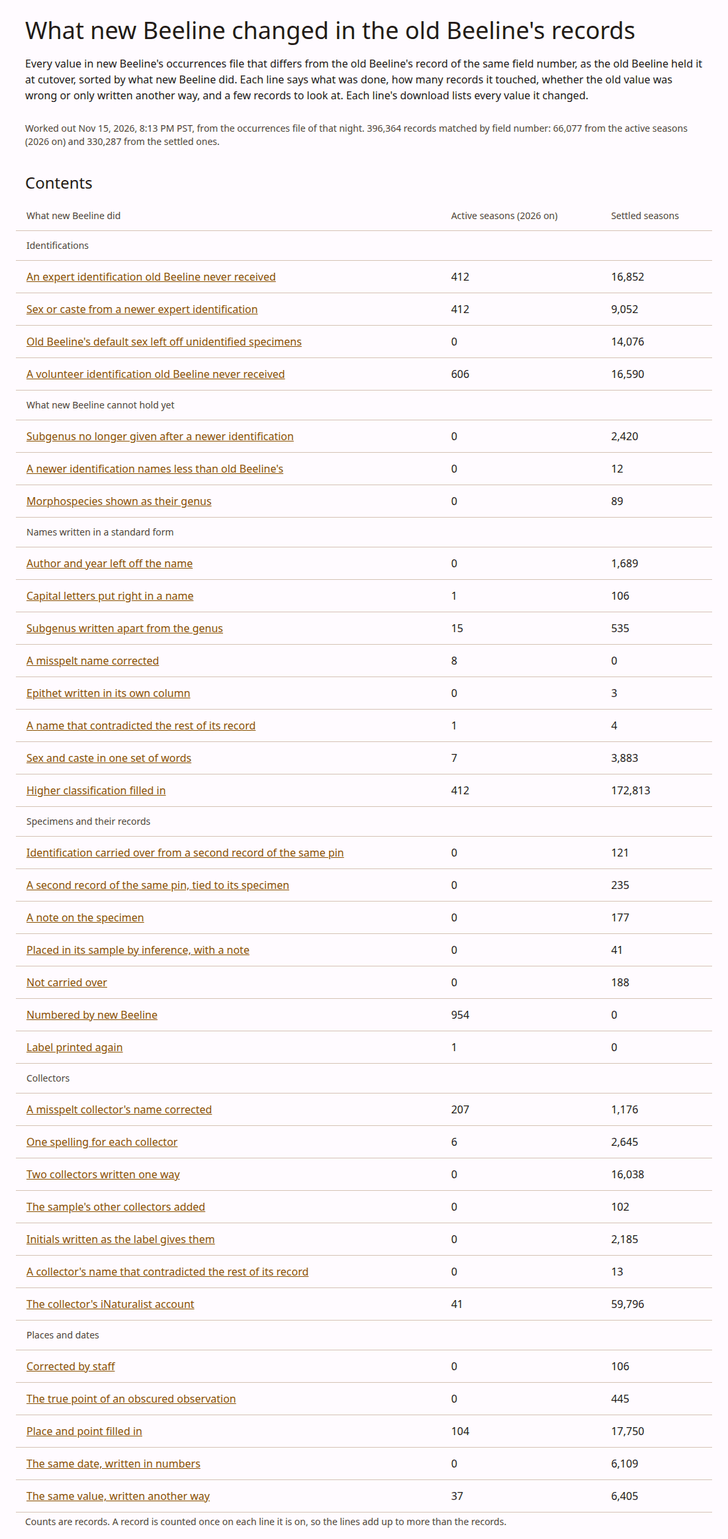
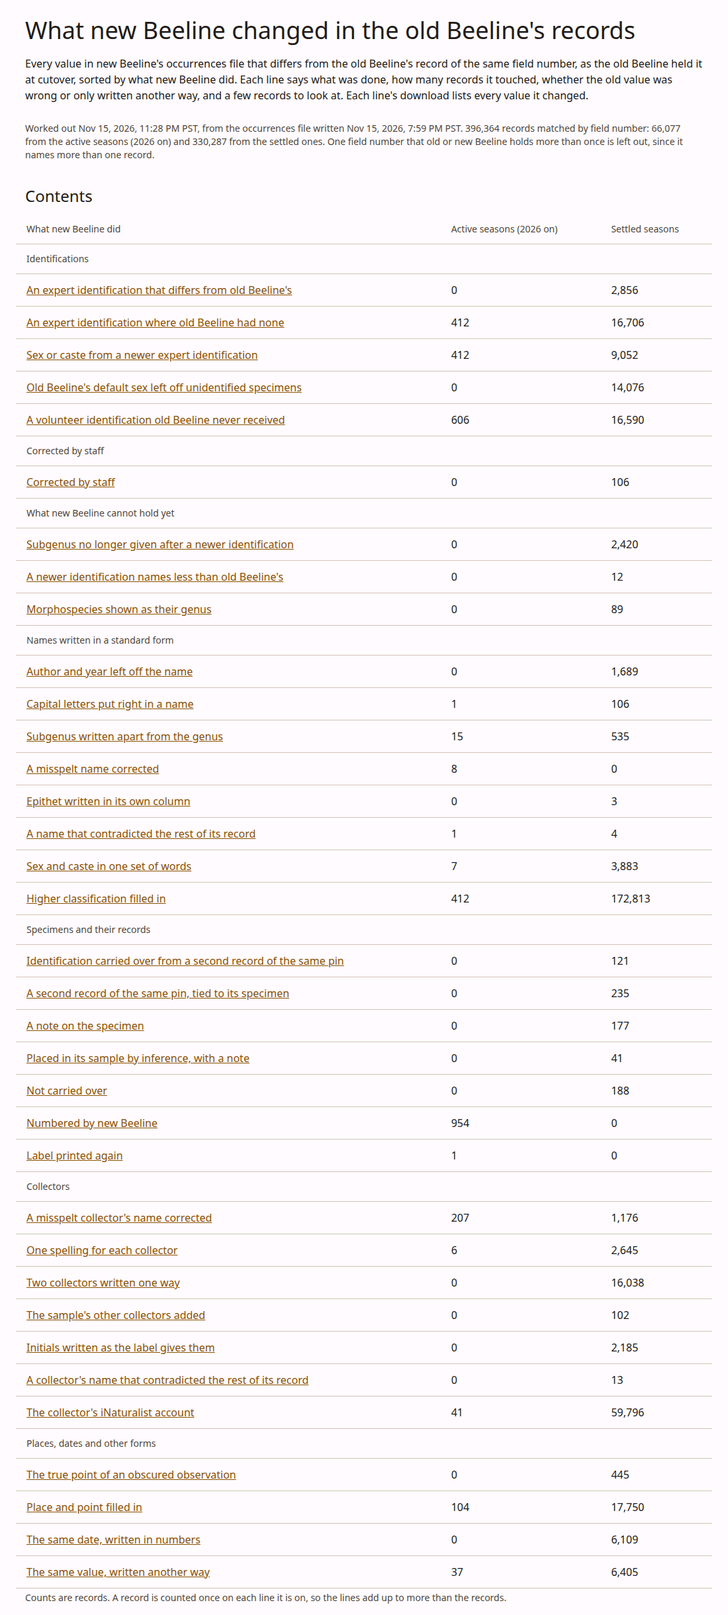
Tell an identification that replaced old Beeline's from one that filled a blank, and other wording a review found the mapping does not guarantee (Fable)
The newer-identification line split in two: 2,856 records where old
Beeline named the bee and new Beeline names it otherwise, which a list of
corrections must be checked against since new Beeline shows the
identification it received last rather than the one made last, and 17,118
where old Beeline had none. Staff corrections get a heading of their own;
the default-sex, sex-and-caste and staff lines say only what their kinds
guarantee; the CSVs drop the rulings' reasons, written for maintainers;
the page says when the export it read was written and how many field
numbers it could not pair; and the job runs last of the night's.

diff --git a/src/legacy-changes.ts b/src/legacy-changes.ts
@@ -60,9 +60,14 @@ export const CATEGORIES = [
     intro: "Where the identification of a specimen is not old Beeline's, and why.",
   },
   {
+    id: "staff",
+    title: "Corrected by staff",
+    intro: "Corrections staff made to old Beeline's records by hand, the other list of corrections already in new Beeline.",
+  },
+  {
     id: "gaps",
     title: "What new Beeline cannot hold yet",
-    intro: "What old Beeline said that new Beeline does not say, because it has nowhere to keep it yet or a newer identification left it out. These are the ones for taxonomists to look at.",
+    intro: "What old Beeline said that new Beeline does not say, because it has nowhere to keep it yet or a newer identification left it out.",
   },
   {
     id: "names",
@@ -81,8 +86,8 @@ export const CATEGORIES = [
   },
   {
     id: "places",
-    title: "Places and dates",
-    intro: "Where and when the specimen was collected.",
+    title: "Places, dates and other forms",
+    intro: "Where and when the specimen was collected, and values that are the same written another way.",
   },
   {
     id: "unsorted",
@@ -99,8 +104,12 @@ export interface ChangeLine {
   title: string;
   /** What it did and why, in a sentence or three. */
   did: string;
-  /** What the line takes: each a set of the comparison's kinds, in these columns only, or every column where none are named. */
-  match: readonly { kinds: readonly string[]; columns?: readonly string[] }[];
+  /**
+   * What the line takes: each a set of the comparison's kinds, in these
+   * columns only, or every column where none are named; and only where old
+   * Beeline's value was blank, or only where it was not, where `old` says so.
+   */
+  match: readonly { kinds: readonly string[]; columns?: readonly string[]; old?: "blank" | "given" }[];
 }
 
 /**
@@ -109,11 +118,18 @@ export interface ChangeLine {
  */
 export const LINES: readonly ChangeLine[] = [
   {
-    id: "newer_expert",
+    id: "expert_differs",
     category: "identifications",
-    title: "An expert identification old Beeline never received",
-    did: "The specimen's newest expert identification was made after old Beeline stopped receiving them, in Ecdysis or in new Beeline, where old Beeline had none or an earlier one. The name, its rank and family, and who determined it are that identification's.",
-    match: [{ kinds: ["newer_determination"], columns: IDENTIFICATION }],
+    title: "An expert identification that differs from old Beeline's",
+    did: "Old Beeline named the bee, and new Beeline names it otherwise, from an expert identification in Ecdysis or made in new Beeline. New Beeline shows the identification it received last, which is not always the one made last: where a taxonomist corrected a name in old Beeline after the earlier name reached Ecdysis, the earlier name is the one new Beeline shows. These are the records to check against a list of corrections.",
+    match: [{ kinds: ["newer_determination"], columns: IDENTIFICATION, old: "given" }],
+  },
+  {
+    id: "expert_added",
+    category: "identifications",
+    title: "An expert identification where old Beeline had none",
+    did: "Old Beeline left the name blank, and new Beeline gives one from an expert identification in Ecdysis or made in new Beeline: the name, its rank and family, and who determined it.",
+    match: [{ kinds: ["newer_determination"], columns: IDENTIFICATION, old: "blank" }],
   },
   {
     id: "newer_expert_sex",
@@ -126,7 +142,7 @@ export const LINES: readonly ChangeLine[] = [
     id: "default_sex",
     category: "identifications",
     title: "Old Beeline's default sex left off unidentified specimens",
-    did: "From 2023 old Beeline wrote male on every new record until somebody identified the specimen: it was the entry form's default, not anybody's reading of the bee. New Beeline gives a sex only where an expert identified the specimen, so these records, which no expert has identified, give none. A few of them said female rather than male; they give none either, for the same reason.",
+    did: "From 2023 old Beeline wrote male on every new record until somebody identified the specimen: it was the entry form's default, not anybody's reading of the bee. New Beeline gives a sex only where an expert identification states one. These records had no identification in old Beeline, and no expert identification since has stated a sex, so they give none. A few of them said female rather than male; they give none either, for the same reason.",
     match: [{ kinds: ["unidentified_sex_dropped"] }],
   },
   {
@@ -203,7 +219,7 @@ export const LINES: readonly ChangeLine[] = [
     id: "sex_caste_words",
     category: "names",
     title: "Sex and caste in one set of words",
-    did: "Male is written male, a caste written in the sex column gives the sex too (a worker is female), and old Beeline's Queen is written gyne.",
+    did: "Male is written male, a caste written in the sex column gives the sex too (a worker is female), and old Beeline's Queen is written gyne. A word that is neither a sex nor a caste is left out.",
     match: [{ kinds: ["sex_caste_vocabulary"] }],
   },
   {
@@ -313,9 +329,9 @@ export const LINES: readonly ChangeLine[] = [
   },
   {
     id: "staff_corrected",
-    category: "places",
+    category: "staff",
     title: "Corrected by staff",
-    did: "A correction staff made to the old record, in new Beeline or by hand before cutover: mostly trap samples whose method and end date were put right, and a few counties and localities.",
+    did: "A correction staff made to the old record, in new Beeline or in a file of corrections before cutover, which can be to any of its collector, numbers, dates, place or method. On 15 November 2026 they were trap samples whose method and end date were put right, and a few counties and localities.",
     match: [{ kinds: ["staff_correction"] }],
   },
   {
@@ -390,7 +406,11 @@ export const LINE_SQL = `CASE
   ${LINES.flatMap((l) =>
     l.match
       .filter((m) => m.kinds.length > 0)
-      .map((m) => `WHEN kind IN (${list(m.kinds)})${m.columns ? ` AND "column" IN (${list(m.columns)})` : ""} THEN '${l.id}'`),
+      .map(
+        (m) =>
+          `WHEN kind IN (${list(m.kinds)})${m.columns ? ` AND "column" IN (${list(m.columns)})` : ""}` +
+          `${m.old === "blank" ? " AND legacy = ''" : m.old === "given" ? " AND legacy <> ''" : ""} THEN '${l.id}'`,
+      ),
   ).join("\n  ")}
   ELSE 'other'
 END`;
@@ -431,6 +451,10 @@ export interface ChangesSummary {
   activeSince: string;
   reference: { rows: number; fingerprint: string };
   matched: { active: number; settled: number };
+  /** Field numbers both sides hold, one of them more than once, which the comparison cannot pair and so leaves off every line. */
+  duplicated: number;
+  /** When the export compared was written: tonight's, unless the export failed and an older file was read. */
+  exportWrittenAt: string;
   /**
    * The folder under the summary's own that holds this night's CSVs. Each
    * night writes a new one and the summary names it, so the counts on the
@@ -484,6 +508,18 @@ export async function writeChanges(
   await conn.run("SET threads = 1");
   try {
     const comparison = await compareLegacyExport(conn, exportPath, rulings);
+    // A field number held more than once on one side and present on the
+    // other names no pair the comparison can make, so none of its differences
+    // is on any line. One held twice on one side only is a record that side
+    // alone holds, which a line already counts (the empty records not carried
+    // over, say), so the comparison's own `duplicated` overstates the gap.
+    const [[unmatched]] = (await (await conn.run(`
+      SELECT count(*) FROM (
+        SELECT "fieldNumber" AS n FROM cmp_export GROUP BY 1 HAVING count(*) > 1
+        UNION
+        SELECT "fieldNumber" FROM legacy_occurrence WHERE nullif("fieldNumber", '') IS NOT NULL GROUP BY 1 HAVING count(*) > 1) x
+      WHERE EXISTS (SELECT 1 FROM cmp_export e WHERE e."fieldNumber" = x.n)
+        AND EXISTS (SELECT 1 FROM legacy_occurrence l WHERE l."fieldNumber" = x.n)`)).getRows()) as [[bigint]];
     await conn.run(`
       CREATE OR REPLACE TEMP TABLE chg_line AS
       SELECT k.*, ${LINE_SQL} AS line FROM cmp_kinded k`);
@@ -491,10 +527,6 @@ export async function writeChanges(
     await conn.run(`INSERT INTO chg_meta VALUES ${LINES.map((l) => `(${sqlString(l.id)}, ${sqlString(l.category)}, ${sqlString(l.title)})`).join(", ")}`);
     await conn.run(`CREATE OR REPLACE TEMP TABLE chg_outcome (outcome TEXT, words TEXT)`);
     await conn.run(`INSERT INTO chg_outcome VALUES ${Object.entries(OUTCOME_WORDS).map(([o, w]) => `(${sqlString(o)}, ${sqlString(w)})`).join(", ")}`);
-    await conn.run(`CREATE OR REPLACE TEMP TABLE chg_reason (ruling_id INTEGER, reason TEXT)`);
-    if (rulings.length > 0) {
-      await conn.run(`INSERT INTO chg_reason VALUES ${rulings.map((r, i) => `(${i}, ${sqlString(r.reason)})`).join(", ")}`);
-    }
 
     const counts = new Map(
       ((await (await conn.run(`
@@ -575,6 +607,8 @@ export async function writeChanges(
       activeSince,
       reference: comparison.reference,
       matched: comparison.matched,
+      duplicated: Number(unmatched),
+      exportWrittenAt: (await stat(exportPath)).mtime.toISOString(),
       generation,
       lines,
     };
@@ -602,8 +636,9 @@ export async function writeChanges(
 
 /**
  * Every difference on one line, one row each: the record, its season, the
- * column, old Beeline's value and new Beeline's, what new Beeline did, the
- * outcome, and the ruling's own reason. With a byte order mark, so a
+ * column, old Beeline's value and new Beeline's, what new Beeline did and the
+ * outcome. Not the ruling's own reason, which is written for whoever keeps
+ * the comparison (file names, issue numbers). With a byte order mark, so a
  * spreadsheet reads the names in it as UTF-8; replaced only once complete.
  */
 async function writeLineCsv(conn: DuckDBConnection, line: string, path: string): Promise<void> {
@@ -614,11 +649,10 @@ async function writeLineCsv(conn: DuckDBConnection, line: string, path: string):
       COPY (
         SELECT c.field_number, CASE WHEN c.active_season THEN 'active' ELSE 'settled' END AS season,
                c."column", c.legacy AS old_beeline, c.exported AS new_beeline,
-               m.title AS what_new_beeline_did, coalesce(o.words, c.outcome) AS outcome, coalesce(r.reason, '') AS why
+               m.title AS what_new_beeline_did, coalesce(o.words, c.outcome) AS outcome
         FROM chg_line c
         JOIN chg_meta m ON m.line = c.line
         LEFT JOIN chg_outcome o ON o.outcome = c.outcome
-        LEFT JOIN chg_reason r ON r.ruling_id = c.ruling_id
         WHERE c.line = ${sqlString(line)}
         ORDER BY c.field_number, c."column"
       ) TO ${sqlString(body)} (HEADER, DELIMITER ',', QUOTE '"', ESCAPE '"')`);

diff --git a/test/legacy-changes.test.ts b/test/legacy-changes.test.ts
@@ -21,11 +21,13 @@ import { legacyExportPath, writeLegacyExport } from "../src/legacy-export.js";
 import { scratchPaths } from "./helpers.js";
 import { promotedStore } from "./promoted-store.js";
 
-/** The line each (kind, column, outcome) goes to, by LINE_SQL itself. */
-async function linesOf(rows: [kind: string, column: string, outcome?: string][]): Promise<string[]> {
+/** The line each (kind, column, outcome, old Beeline's value) goes to, by LINE_SQL itself; the old value is not blank unless given. */
+async function linesOf(rows: [kind: string, column: string, outcome?: string, legacy?: string][]): Promise<string[]> {
   const conn = await (await openMemoryDuckDb()).connect();
   const reader = await conn.runAndReadAll(
-    `SELECT ${LINE_SQL} FROM (VALUES ${rows.map(([k, c, o], i) => `('${k}', '${c}', '${o ?? "expected"}', ${i})`).join(", ")}) t(kind, "column", outcome, i) ORDER BY i`,
+    `SELECT ${LINE_SQL} FROM (VALUES ${rows
+      .map(([k, c, o, l], i) => `('${k}', '${c}', '${o ?? "expected"}', '${l ?? "old"}', ${i})`)
+      .join(", ")}) t(kind, "column", outcome, legacy, i) ORDER BY i`,
   );
   conn.closeSync();
   return (reader.getRows() as [string][]).map(([l]) => l);
@@ -79,8 +81,13 @@ describe("the line each difference is on", () => {
     ),
   ];
 
-  test("puts every kind found on production on a line that describes it", async () => {
-    const rows = production.flatMap(([kind, columns]) => columns.map((c): [string, string] => [kind, c]));
+  test("puts every kind found on production on a line that describes it, whether old Beeline's value was blank or not", async () => {
+    const rows = production.flatMap(([kind, columns]) =>
+      columns.flatMap((c): [string, string, string, string][] => [
+        [kind, c, "expected", ""],
+        [kind, c, "expected", "old"],
+      ]),
+    );
     const lines = await linesOf(rows);
     const other = rows.filter((_, i) => lines[i] === "other");
     expect(other).toEqual([]);
@@ -99,6 +106,7 @@ describe("the line each difference is on", () => {
       await linesOf([
         ["newer_determination", "sex"],
         ["newer_determination", "genus"],
+        ["newer_determination", "genus", "expected", ""],
         ["changed", "userId"],
         ["changed", "firstName"],
         ["changed", "firstNameInitial"],
@@ -106,7 +114,7 @@ describe("the line each difference is on", () => {
         ["filled", "specificEpithet"],
         ["filled", "phylum"],
       ]),
-    ).toEqual(["newer_expert_sex", "newer_expert", "account", "collector_contradicted", "initials", "contradicted_name", "epithet_column", "classification"]);
+    ).toEqual(["newer_expert_sex", "expert_differs", "expert_added", "account", "collector_contradicted", "initials", "contradicted_name", "epithet_column", "classification"]);
   });
 
   test("puts a difference no ruling explains on a line of its own, whatever its kind", async () => {
@@ -121,7 +129,8 @@ describe("the line each difference is on", () => {
         if (a.line === b.line) continue;
         const kinds = a.kinds.filter((k) => b.kinds.includes(k));
         const columnsMeet = a.columns === undefined || b.columns === undefined || a.columns.some((c) => b.columns!.includes(c));
-        if (kinds.length > 0 && columnsMeet) clashes.push(`${a.line} and ${b.line}: ${kinds.join(", ")}`);
+        const oldMeets = a.old === undefined || b.old === undefined || a.old === b.old;
+        if (kinds.length > 0 && columnsMeet && oldMeets) clashes.push(`${a.line} and ${b.line}: ${kinds.join(", ")}`);
       }
     }
     expect(clashes).toEqual([]);
@@ -192,9 +201,9 @@ describe("writing the changes", () => {
     const bytes = await readFile(join(dir, sex.file));
     expect(bytes.subarray(0, 3)).toEqual(Buffer.from([0xef, 0xbb, 0xbf]));
     const [header, ...rows] = bytes.subarray(3).toString("utf8").trim().split("\n");
-    expect(header).toBe("field_number,season,column,old_beeline,new_beeline,what_new_beeline_did,outcome,why");
+    expect(header).toBe("field_number,season,column,old_beeline,new_beeline,what_new_beeline_did,outcome");
     expect(rows).toHaveLength(sex.values);
-    expect(rows[0]).toContain("25000005,settled,sex,male,female,Sex or caste from a newer expert identification,Not a fault in either,");
+    expect(rows[0]).toBe("25000005,settled,sex,male,female,Sex or caste from a newer expert identification,Not a fault in either");
     expect(sex.bytes).toBe((await stat(join(dir, sex.file))).size);
     expect(await readChangesSummary(exportsDir)).toEqual(summary);
     // The older night's folder, which no summary named, is gone; the folder it did not write is not.

diff --git a/src/app/jobs/registry.ts b/src/app/jobs/registry.ts
@@ -840,10 +840,26 @@ export function buildJobs(
       },
     },
     {
+      // One Darwin Core archive per calendar year for each atlas and for
+      // Master Melittology, for staff to review; none for the BLM surveys,
+      // whose samples are not theirs by geography (beeline-rvun). After the
+      // legacy export, so it reads the same store; on Exports.
+      name: "dwc-archives",
+      schedule: { kind: "dailyLA", hour: 4 },
+      window: "night",
+      async run(ctx) {
+        const manifest = await writeProgramArchives(ctx.db, config.exportsDir ?? deploymentPath("data/exports"), { step: ctx.step });
+        return describeManifest(manifest);
+      },
+    },
+    {
       // What new Beeline did to the old Beeline's records, sorted into lines a
       // taxonomist can read, for /exports/changes (beeline-eznn). After the
-      // export, whose file it compares with the staged old records; on one
-      // thread, as the export is, for the memory of the comparison.
+      // export, whose file it compares with the staged old records, and last,
+      // so a slow night pushes nothing else out of the night window; on one
+      // thread, as the export is, for the memory of the comparison. The page
+      // says when the file it compared was written, so a night whose export
+      // failed shows that it read the night before's.
       name: "legacy-changes",
       schedule: { kind: "dailyLA", hour: 4 },
       window: "night",
@@ -860,19 +876,6 @@ export function buildJobs(
           writeChanges(ctx.conn, path, rulings, changesDir(dir)),
         );
         return describeChanges(summary);
-      },
-    },
-    {
-      // One Darwin Core archive per calendar year for each atlas and for
-      // Master Melittology, for staff to review; none for the BLM surveys,
-      // whose samples are not theirs by geography (beeline-rvun). After the
-      // legacy export, so it reads the same store; on Exports.
-      name: "dwc-archives",
-      schedule: { kind: "dailyLA", hour: 4 },
-      window: "night",
-      async run(ctx) {
-        const manifest = await writeProgramArchives(ctx.db, config.exportsDir ?? deploymentPath("data/exports"), { step: ctx.step });
-        return describeManifest(manifest);
       },
     },
   ];

diff --git a/src/app/messages/en.ts b/src/app/messages/en.ts
@@ -2136,7 +2136,13 @@ export const en = {
       "Every value in new Beeline's occurrences file that differs from the old Beeline's record of the same field number, as the old Beeline held it at cutover, sorted by what new Beeline did. Each line says what was done, how many records it touched, whether the old value was wrong or only written another way, and a few records to look at. Each line's download lists every value it changed.",
     linkFromExports: "What new Beeline changed in the old Beeline's records",
     missing: "Not worked out yet. It appears after the next nightly run, or after running the legacy-changes job on Jobs.",
-    written: (when: string) => `Worked out ${when}, from the occurrences file of that night.`,
+    written: (when: string, file: string) => `Worked out ${when}, from the occurrences file written ${file}.`,
+    duplicated: (count: number) =>
+      count === 0
+        ? ""
+        : count === 1
+          ? "One field number that old or new Beeline holds more than once is left out, since it names more than one record."
+          : `${n(count)} field numbers that old or new Beeline holds more than once are left out, since each names more than one record.`,
     matched: (active: number, settled: number, since: string) =>
       `${n(active + settled)} records matched by field number: ${n(active)} from the active seasons (${since} on) and ${n(settled)} from the settled ones.`,
     contents: "Contents",

diff --git a/src/app/views/legacy-changes.tsx b/src/app/views/legacy-changes.tsx
@@ -40,8 +40,8 @@ export function LegacyChangesPage({ m, summary }: { m: Messages; summary: Change
     <>
       <PageHeader title={c.heading} lede={c.intro} />
       <Meta block>
-        {c.written(m.format.dateTime(new Date(summary.writtenAt)))}{" "}
-        {c.matched(summary.matched.active, summary.matched.settled, since)}
+        {c.written(m.format.dateTime(new Date(summary.writtenAt)), m.format.dateTime(new Date(summary.exportWrittenAt)))}{" "}
+        {c.matched(summary.matched.active, summary.matched.settled, since)} {c.duplicated(summary.duplicated)}
       </Meta>
       <h2>{c.contents}</h2>
       <DataTable columns={[c.colLine, c.colActive(since), c.colSettled]}>

diff --git a/docs/architecture/the-legacy-format-export.md b/docs/architecture/the-legacy-format-export.md
@@ -4,7 +4,7 @@ Part of Beeline's architecture notes; the index is [README.md](README.md).
 
 Reporting built on the legacy system's occurrences file — Andony's R comparison, the taxonomists' Ecdysis uploads — keeps working because Beeline writes that file too (`src/legacy-export.ts`, beeline-6q8, GitHub #107): every specimen, the legacy template's 63 columns in its order and then one of Beeline's own, `occurrenceRemarks`, the inventory's remark on the specimen where there is one (`specimen_disposition`, beeline-fud5; Andony's own 2025 master file carries the column under that name, and the comparison below rules it `expected`), csv-stringify's conventions (BOM, header, `\n`, quote only when needed, blank as nothing) and its composite_sort row order. The `legacy-export` job writes it nightly at 4am Pacific into `exportsDir`, and admins download it from `/exports`; DuckDB writes it with `COPY` because the corpus is ~160 MB. **Where a value comes from is a rule, not a column-by-column choice**: anything Beeline can change comes from the model — collectors, dates, places, coordinates, determinations, printing — so the file follows staff edits and Ecdysis determinations; what Beeline does not model at all (the legacy error flags, catalog numbers, resource links, the plant's higher taxonomy) is carried from the staged record of an imported specimen exactly, blanks included, and a Beeline-originated specimen gets the model's value where it holds the fact and a blank where it does not. The aim is to match the legacy file exactly (Peter, 2026-10-04), so a row describes one point: where it carries its own imported coordinates it carries that row's elevation and uncertainty too, never the sample's, since a sample that merged legacy rows taken at different points has one location and its elevation belongs to another place (beeline-en7i); a row likewise carries its own method, end date and place by name wherever the legacy rows of its sample disagree about them, since a sample holds one of each and one collector's sample 1 of 25 April 2019 was two specimens netted that day and three from pan traps emptied the next — read from the corrected rows, so a staff edit, which corrects every row of its sample, brings the model's value back, as does a locality override set on the sample; where Beeline holds no volunteer identification, the volunteer columns are the legacy row's, and where it holds no expert one, the expert columns are (a determiner with no name, `L.R.Best` on 88 records, has no determination to live on); sex and caste are the expert's, so where no expert determination states them the old record's are carried only where it names an expert identification, because from 2023 the old Beeline wrote "male" on records nobody had identified as an entry default (24,434 on the store of 15 November 2026, of which experts in Ecdysis have since found half female; Peter, 2026-11-15, beeline-eznn); and while the legacy determination is still the record its subgenus is the legacy row's, since the tree files a species under its genus and the subgenus the determiner stated is held nowhere else (Peter, 2026-10-04). Legacy vocabulary is kept where it differs from the model's: `CA`/`NZ` rather than ISO alpha-3, several collectors joined with `" | "` in the name columns as the register wrote a shared login, a qualifier inside `scientificName`. `pnpm legacy:compare-export` is the done-test: on the 2026-09-27 corpus the open season differs in a few hundred values per column out of 61,400 records, and the settled seasons mostly where Beeline normalised (Roman-numeral months, `Male`) or filled what older records left blank (the higher taxonomy of 158,669 identified specimens). During the parallel run it is also the list of what nobody has explained yet (beeline-en7i): each difference gets a kind from its two values alone (`filled`, `case`, `date_form`, `country_code`, `subgenus_form`, `authorship`, … or `changed`), or from what the store knows where the values cannot say it — `collector_alias` (the legacy spelling of a collector that `ingest/collector-aliases.csv` corrects), `taxon_alias` (the same for a genus or epithet and `ingest/taxon-aliases.csv`), `subgenus_form` again where a genus column holds only `(Peponapis)` and the tree files it under the genus exported, `staff_correction` (the legacy row as staff corrected it, and the columns written from a date they corrected), `newer_determination` (an expert identification from Ecdysis or Beeline, and for sex and caste the newest expert determination that states one), `newer_volunteer_determination` (the same for a volunteer's, from a worksheet or made in Beeline), `sex_caste_vocabulary` (sex and caste as promotion reads the old pair: `Male` is male, a worker is female, Queen a gyne), `second_print` (an identification carried from the specimen's other old record, which the one-time repair tied to it), `repair_placed` (a held-back record the repair placed in its sample, whose values it takes), `reprinted` (a label printed again, whose print date is the newest printing's), `unidentified_sex_dropped` (the old default sex on a record no expert identified, no longer carried), `subgenus_dropped` and `coarser_determination` (what a newer expert identification lost: the old subgenus, or a species where the newest names a genus), `label_name`, `initial_from_surname`, `collector_order_contradicted` (a record whose recordedBy and name columns list its pair in opposite orders), `login_renamed` (the same iNaturalist user id under another login), `sample_disagreement` (promotion found the legacy rows merged into this specimen's sample disagreeing about that place field), a record only one side holds is a difference about the whole record kinded by why — the blocking promotion finding that stopped it, or whether Beeline minted its number — and `ingest/legacy-export-rulings.csv`, written by hand and reviewed in git, says which are explained: by column, by kind, or one record by field number, or with no column for a kind wherever it occurs, the most specific ruling winning, with the outcome (`expected`, `reference-wrong`, `beeline-wrong`, `known-gap`), why, and where the call was made. The outcome follows one rule (Peter, 2026-11-15): the old Beeline is wrong (`reference-wrong`) where its value is false, a misspelling, a lower-case genus, an obscured observation's hiding point printed as its real one, a default sex; and it is `expected` where its value is true written another way, a capital in a login or a name, an initial without its full stop, a Roman month, a three-letter country code. A `beeline-wrong` ruling that matches nothing any more reports itself retired, so a fixed defect never hides behind a stale ruling. The legacy side is the staged pull, which Beeline also imports from, so this measures what Beeline does to the legacy records rather than two independent systems, and the report names the pull by a fingerprint of its rows; it runs from a workstation whenever someone asks, and nightly as the `legacy-changes` job (below), with no gate. Every difference, with the ruling that explains it, goes to `data/exports/legacy-export-differences.csv` for anyone auditing it — under `data/` because it names people. **It is now the ledger of what new Beeline does to the old records** (beeline-eznn): Lincoln Best kept his own list of corrections, never applied before cutover, so a three-way merge of the old records, new Beeline and his list is coming, and this is the second side of it. Audited against the production backup of 15 November 2026, it matched 396,307 records and found 1,371,180 differing values, every one ruled. Until then 7,281 records whose sex went from male to female had been put down to the sex vocabulary, and 7,270 of them were an expert's identification from Ecdysis since cutover; the vocabulary now has a kind of its own, applied only where promotion's reading of the old pair is what new Beeline wrote, and sex and caste follow the newest expert determination that states them. An independent review of the ledger then found most of those 2025 "male" values were an entry default (above), which the export stopped carrying, and that a newer identification's losses had been ruled as nothing more than newer: 2,420 subgenera and 6 species, now known gaps for the taxonomists to see. With those, the backup's 1,385,256 differing values are every one ruled.
 
-**Staff read the ledger at `/exports/changes`** (`src/legacy-changes.ts`, beeline-eznn), written for Linc rather than for whoever maintains the comparison. Each difference goes on one line that says what new Beeline did, in a taxonomist's words ("Subgenus no longer given after a newer identification", "Two collectors written one way"), chosen by its kind and its column. The lines sit under six headings: identifications, what new Beeline cannot hold yet, names, specimens, collectors, and places and dates. Every line gives its records split by season, the outcome of its rulings in plain words, three records to look at (each the first record of one of the line's commonest changes, linked to its specimen), and a CSV of every value it changed. The CSVs are one per line, not one per heading, because the higher classification filled in from the name is a million values (200 MB) and would bury the rest of the names. A test holds the lines to taking no kind in the same column twice, and to placing every kind and column found on the production backup of 15 November 2026 on a line that describes it. A difference no ruling explains goes on a line of its own, and one that no line describes goes on an `other` line, so nothing drops off the page. The comparison takes 25 to 90 seconds and about 1.6 GB of memory on one thread (it completes with DuckDB held to 768 MB, spilling to disk), so the page never runs it. The `legacy-changes` job runs it each night after the export, on one thread, and writes the CSVs into a new folder of the night's own under `<exportsDir>/changes/` and then `summary.json`, which names that folder and which the page reads, so the counts on the page and a file downloaded from it are always one night's, even after a night that fails part-way; each download link names its night, and the job keeps the night before's folder for anyone who loaded the page before the run, removing only older folders named as it names a night. Building the page also corrected the ledger: a second print that the one-time repair tied to a specimen still carries promotion's blocking finding, so the comparison had counted all 235 of them as held back. It now gives them a kind of their own, `tied_second_record`, which leaves 188 field numbers held back: the 99 records the held-back page lists, and the 89 field numbers of its 177 bare records.
+**Staff read the ledger at `/exports/changes`** (`src/legacy-changes.ts`, beeline-eznn), written for Linc rather than for whoever maintains the comparison. Each difference goes on one line that says what new Beeline did, in a taxonomist's words ("Subgenus no longer given after a newer identification", "Two collectors written one way"), chosen by its kind and its column. The lines sit under seven headings: identifications, corrections staff made, what new Beeline cannot hold yet, names, specimens, collectors, and places, dates and other forms. Where an expert identification differs from a name old Beeline gave, it has a line apart from one that fills a blank (2,856 records against 17,118 on the backup of 15 November 2026), because new Beeline shows the identification it received last rather than the one made last: a name a taxonomist corrected in old Beeline after the earlier one reached Ecdysis shows as the earlier one, and those are the records a list of corrections must be checked against. The page also says when the export it compared was written, and how many field numbers it could not pair because one side holds them twice (one on that backup). Every line gives its records split by season, the outcome of its rulings in plain words, three records to look at (each the first record of one of the line's commonest changes, linked to its specimen), and a CSV of every value it changed. The CSVs are one per line, not one per heading, because the higher classification filled in from the name is a million values (200 MB) and would bury the rest of the names. A test holds the lines to taking no kind in the same column twice, and to placing every kind and column found on the production backup of 15 November 2026 on a line that describes it. A difference no ruling explains goes on a line of its own, and one that no line describes goes on an `other` line, so nothing drops off the page. The comparison takes 25 to 90 seconds and about 1.6 GB of memory on one thread (it completes with DuckDB held to 768 MB, spilling to disk), so the page never runs it. The `legacy-changes` job runs it each night after the export, on one thread, and writes the CSVs into a new folder of the night's own under `<exportsDir>/changes/` and then `summary.json`, which names that folder and which the page reads, so the counts on the page and a file downloaded from it are always one night's, even after a night that fails part-way; each download link names its night, and the job keeps the night before's folder for anyone who loaded the page before the run, removing only older folders named as it names a night. Building the page also corrected the ledger: a second print that the one-time repair tied to a specimen still carries promotion's blocking finding, so the comparison had counted all 235 of them as held back. It now gives them a kind of their own, `tied_second_record`, which leaves 188 field numbers held back: the 99 records the held-back page lists, and the 89 field numbers of its 177 bare records.
 
 **The same rows go back into the old Beeline** (`src/legacy-copy.ts`, beeline-83b8.18). The old Beeline stays open at old.melittologist.org for volunteer determinations through December 2026, and its screens show only its own master list, so the `legacy-copy` job copies there, nightly at 4am Pacific, every specimen a print run here printed and that was not imported from the old system, which holds those already (one, reprinted here under its old number, it holds under its own record). The determinations volunteers enter for them come back by beeline-c43w. Each copy is the export's row for the specimen, its 63 template columns: on the store of 7 November 2026 that filled every column the old system's own printed 2026 records fill except those Beeline does not hold (the OSAC `occurrenceID` and `resourceID`, the observation's UUID in `relatedResourceID`, the plant's phylum, order and family), none of which its determination screens read. It goes **through the old system's API, not its database**: `POST /api/occurrences` as an admin upserts each record by `_id` and sets only the fields it is given, and the old server's repository computes on every write the `composite_sort` and `date` fields its screens sort and filter by, which a direct Mongo write would have to copy exactly; the API is also reached over HTTPS with a login, where Mongo needs a root SSH key to the old host. Its working-file upload is no alternative, since reading that file in deletes every occurrence first. A copy is keyed `beeline-specimen-<entity_id>` rather than by the old system's hash of sample, specimen, date and link, so a corrected date or a duplicate repair's second field number updates the same record, and so beeline-c43w can tell a record that started here from one the old system made. Whether a record is new is read from the old system before each batch, by the field number it holds now and the one last copied (`legacy_copy`, schema/035), and **the five volunteer columns are written only where the old record has none**, so a volunteer's entry there is never overwritten; an update sends only volunteer values that say something, since a volunteer can save between that read and the write, and a blank sent then would erase their entry. Each batch is read back and a specimen recorded in `legacy_copy` only when the old system holds what was sent, since the old server's reply counts go null whenever a batch makes a new record; an unchanged row is not sent again, and a field number the old system holds under another record is not sent at all and fails the night. Batches stop at fifty records or 80 kB because the old server reads JSON bodies up to Express's default 100 kB. The copy compares Beeline's row with what it last sent, not with what the old system holds, so a record the old system rewrites itself is put right only by `--all`. **The legacy-format export must never be uploaded into the old Beeline**: its upload keys each row by its own hash, and would make a second record beside the copy under the same field number. `pnpm legacy:copy [db] [--dry-run] [--all]` runs the same from a workstation; the login is `OLD_BEELINE_USERNAME` and `OLD_BEELINE_PASSWORD` ([deploy-fly.md](../runbooks/deploy-fly.md)), and without it the job fails in production.
 
